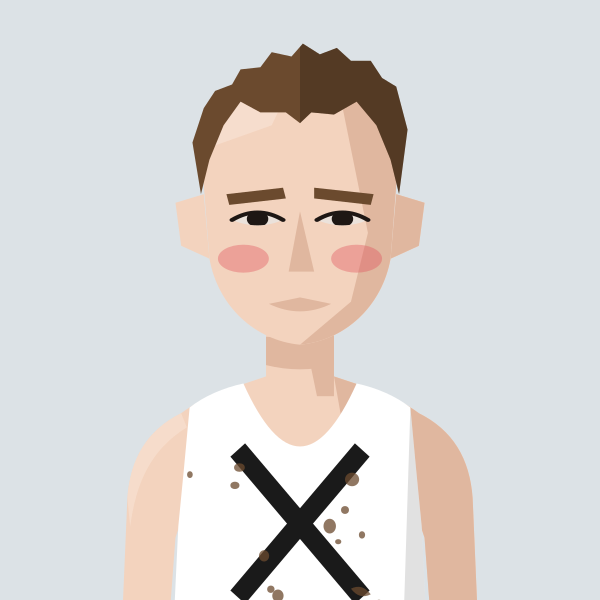
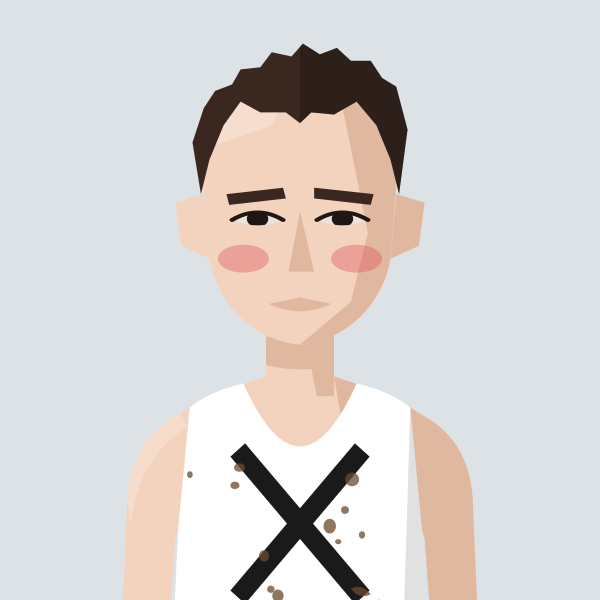
Jack Millar: darker brown hair
Claude-Session: https://claude.ai/code/session_01MgmDWhFqnSSnP4iBLKXUZC

Changed region(s): [[0.3, 0.06, 0.69, 0.33], [0.51, 0.3, 0.63, 0.36], [0.36, 0.3, 0.48, 0.36]]

diff --git a/files/index.html b/files/index.html
@@ -581,7 +581,7 @@ return m;})();
 const portraitFile=(name,club)=>{const k=normalizeNameForCompare(name||'').replace(/\s*\(([^)]*)\)$/,(m,c)=>CLUBS[c.toUpperCase()]?'':m);const a=PORTRAITS[k];if(a&&a.club===club)return a.file;const b=PORTRAITS[k+'@'+club];return b?b.file:null;};
 // Athlete header figure: superstar portrait if we have one, else a grey runner in the club vest, else the plain vest icon
 // Changes whenever any portrait changes (set by tools/build_og.py), so browsers fetch fresh images instead of old cached ones
-const PORTRAIT_V='8026e9f0';
+const PORTRAIT_V='21dd34d9';
 const AthletePortrait=({name,club,w,fill,onClick})=>{const[failed,setFailed]=useState(false);const file=portraitFile(name,club);const src=file?`/portraits/athletes/${file}.svg?v=${PORTRAIT_V}`:PORTRAIT_CLUBS.has(club)?`/portraits/clubs/${club.replace(/\//g,'').replace(/&/g,'and')}.svg?v=${PORTRAIT_V}`:null;if(!src||failed)return<div onClick={onClick} className={onClick?'cursor-pointer':''}><ClubShield club={club} size={w}/></div>;const h=Math.round(w*148/126),ih=Math.round(w*1.4);if(fill)return<div onClick={onClick} className="cursor-pointer" style={{alignSelf:'stretch',minHeight:h,aspectRatio:'126 / 148',flexShrink:0,position:'relative',borderRadius:4,overflow:'hidden'}}><img src={src} alt={file?`Portrait of ${name.replace(/\s*\([^)]*\)$/,'')}`:`Runner in ${CLUBS[club]?.name||club} vest`} style={{position:'absolute',top:0,left:0,display:'block',width:'100%',height:'auto'}} onError={()=>setFailed(true)}/></div>;return<div style={{width:w,height:h,borderRadius:4,overflow:'hidden',flexShrink:0}}><img src={src} alt={file?`Portrait of ${name.replace(/\s*\([^)]*\)$/,'')}`:`Runner in ${CLUBS[club]?.name||club} vest`} width={w} height={ih} style={{display:'block',width:w,height:ih}} onError={()=>setFailed(true)}/></div>;};
 const getClubVestSvg=(club)=>{
   const p="M3 0 L6 0 Q7 4 10 5 Q13 4 14 0 L17 0 L17 20 L3 20 Z";

diff --git a/tools/gen_portraits.py b/tools/gen_portraits.py
@@ -401,7 +401,7 @@ save("shades_on", figure("HOL", skin=3, hair="crop", hair_colour="dark brown", s
 save("brotchie", figure("HHH", skin=1, hair="buzzrecede", hair_colour="light brown", facial="stubble", tattoos=True))
 save("tat_none", figure("HOL", skin=2, hair="crop", hair_colour="mid brown"))
 save("tat_on", figure("HOL", skin=2, hair="crop", hair_colour="mid brown", tattoos=True))
-save("millar", figure("THH", skin=1, hair="shortcurls", hair_colour="mid brown", mud=True, rosy=True))
+save("millar", figure("THH", skin=1, hair="shortcurls", hair_colour="#3A2820", mud=True, rosy=True))
 save("millar_grey", figure("THH", "grey"))
 save("lucy", figure("HHH", skin=1, hair="longloose", hair_colour="#D2B676", brow_colour="#A88C5A"))
 save("alex", figure("H/W", skin=1, hair="quiff", hair_colour="mid brown"))
